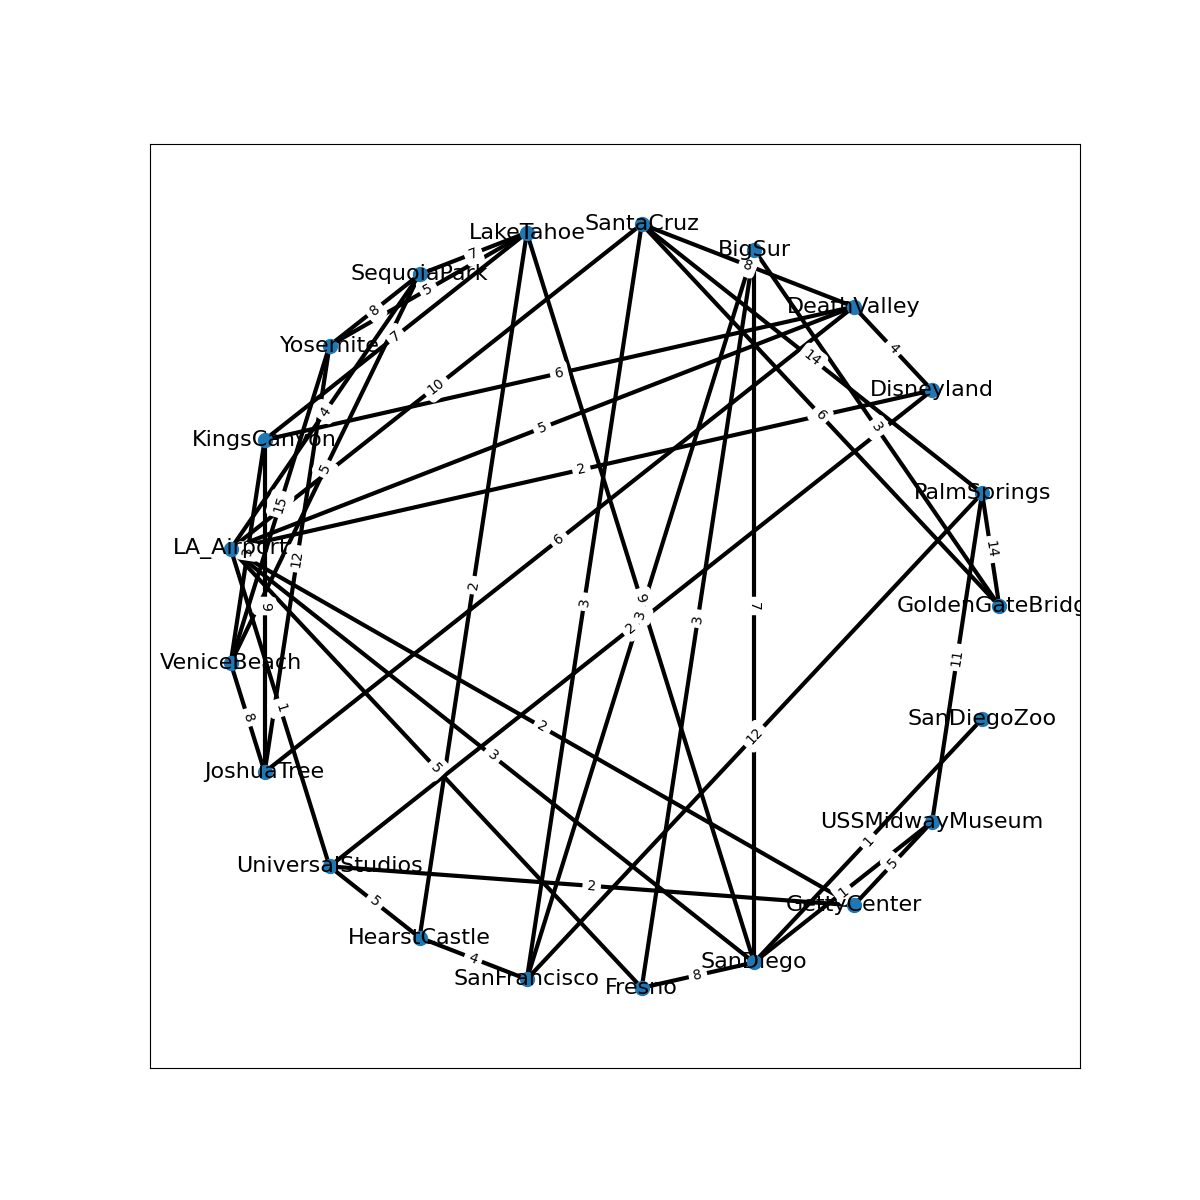
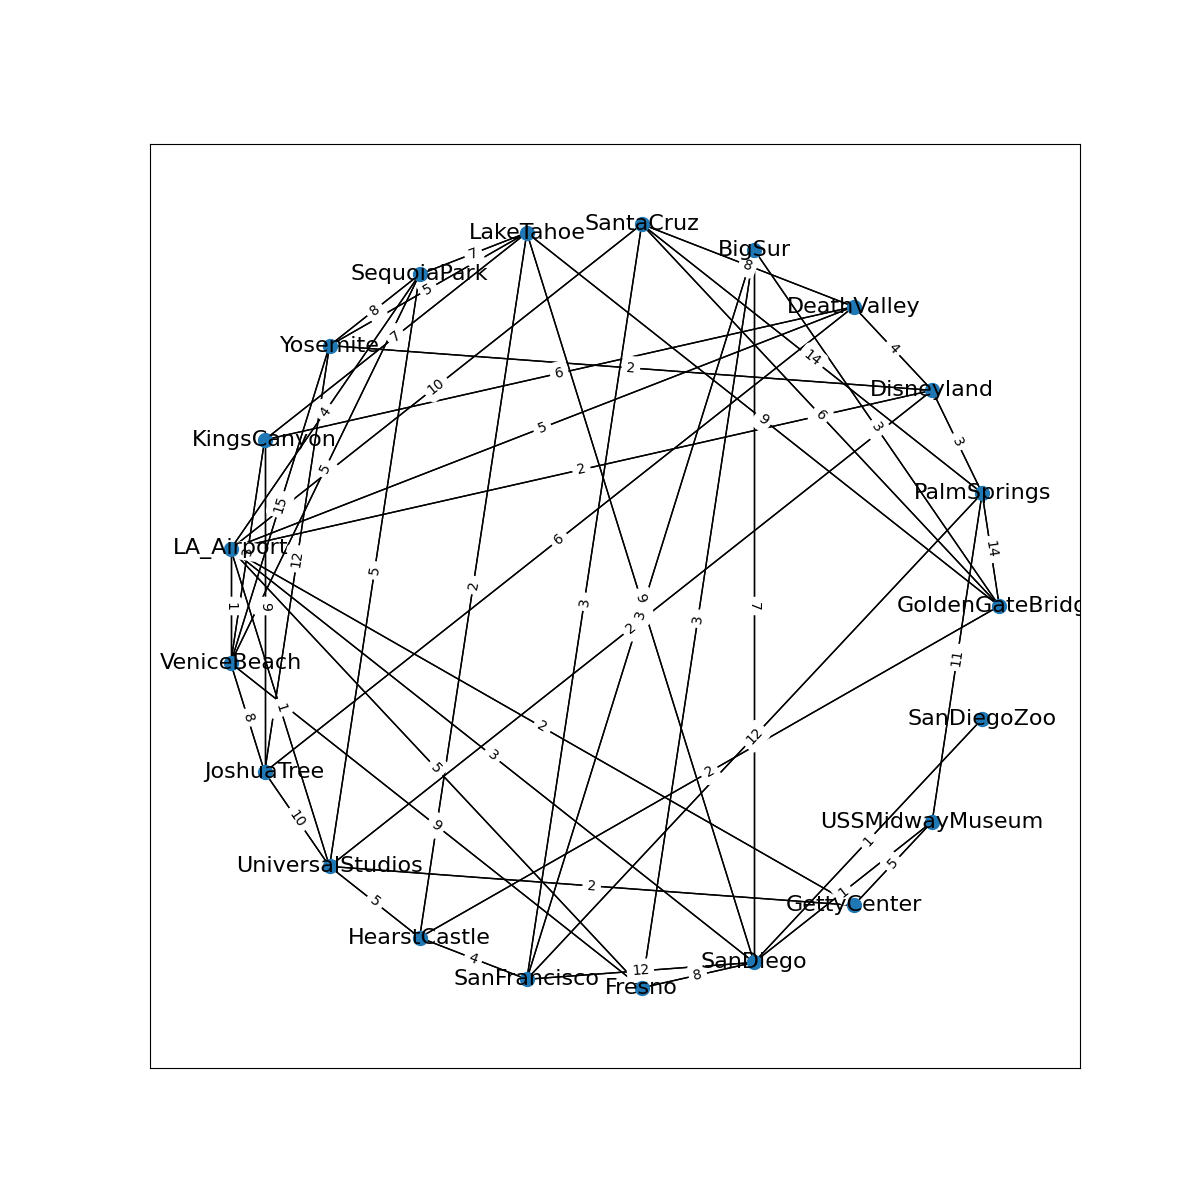
finished with prims

diff --git a/prims.py b/prims.py
@@ -18,6 +18,9 @@ if __name__ == '__main__':
     pos = nx.circular_layout(destinations)
     plt.figure(20,figsize=(12,12))
     labels = nx.get_edge_attributes(destinations,'weight')
+    nx.draw_networkx_edges(destinations, pos)
     nx.draw_networkx(destinations,pos, node_size=100, font_size=16)
     nx.draw_networkx_edge_labels(destinations,pos,edge_labels=labels)
     plt.savefig("graph_for_prims.png")
+    solution = nx.minimum_spanning_tree(destinations, algorithm="prim")
+    print(solution.edges(data=True))

diff --git a/index.md b/index.md
@@ -28,7 +28,7 @@ import networkx as nx
 # busing in CA
 **Informal Description**: 
 A tour bus company based in LA wants to map out new routes and want to stop as often as possible to
-pick up new travelers, but also stop at every popular tourist destination. in order to do this, the bussing 
+pick up new travelers, but also stop at every popular tourist destination. in order to do this, the tour bus 
 company wants to pick routes such that the bus drives on the shortest road to get to each location.
 > **Formal Description**:
 >  * Input: An undirected graph of tourist destinations. edges being roads that connect destinations,vertices 
@@ -45,7 +45,6 @@ edges = []
 with open("tourist_destinations.txt") as data_file:
     lines: list[str]
     lines = data_file.readlines()
-
 edgeList = lines[1:]
 destinations = nx.Graph()
 for edge in edgeList:
@@ -53,25 +52,46 @@ for edge in edgeList:
 for edge in edges:
     test = edge[2]
     destinations.add_edge(edge[0], edge[1], weight=int(edge[2]))
+pos = nx.circular_layout(destinations)
+plt.figure(20,figsize=(12,12))
+labels = nx.get_edge_attributes(destinations,'weight')
+nx.draw_networkx(destinations,pos, node_size=100, font_size=16)
+nx.draw_networkx_edge_labels(destinations,pos,edge_labels=labels)
+plt.savefig("graph_for_prims.png")
 ```
 **Visualization**:
 
-![Image goes here](Relative image filename goes here)
+![prim graph](graph_for_prims.png)
 
 **Solution code:**
 
 ```python
-solution = nx.minimum_spanning_tree(destinations,algorithm="prim",data=False)
+solution = nx.minimum_spanning_tree(destinations,algorithm="prim")
 print(solution.edges(data=True))
 
 ```
 
 **Output**
-edgelist = list(solution)
 ```
+[('GoldenGateBridge', 'BigSur', {'weight': 3}), ('GoldenGateBridge', 'HearstCastle', {'weight': 2}),
+('PalmSprings', 'Disneyland', {'weight': 3}), ('Disneyland', 'LA_Airport', {'weight': 2}),
+('Disneyland', 'Yosemite', {'weight': 2}), ('Disneyland', 'DeathValley', {'weight': 4}),
+('DeathValley', 'JoshuaTree', {'weight': 6}), ('BigSur', 'Fresno', {'weight': 3}),
+('BigSur', 'SanFrancisco', {'weight': 3}), ('SantaCruz', 'SanFrancisco', {'weight': 3}),
+('LakeTahoe', 'HearstCastle', {'weight': 2}), ('SequoiaPark', 'LA_Airport', {'weight': 4}), 
+('KingsCanyon', 'VeniceBeach', {'weight': 3}), ('LA_Airport', 'VeniceBeach', {'weight': 1}), 
+('LA_Airport', 'UniversalStudios', {'weight': 1}), ('LA_Airport', 'GettyCenter', {'weight': 2}),
+('LA_Airport', 'SanDiego', {'weight': 3}), ('LA_Airport', 'Fresno', {'weight': 5}), ('SanDiego',
+'USSMidwayMuseum', {'weight': 1}), ('SanDiego', 'SanDiegoZoo', {'weight': 1})]
+
+
 ```
 
 **Interpretation of Results**:
+LA seems to be a great location for the tour bus company as it is around so many attractions and there are many
+short roads connected to the LA airport. The buses can stop often to bring in new customers and drop off
+customers who already paid with these new routes.
+
 
 # Travel Company Troubles
 **Informal Description**: 
